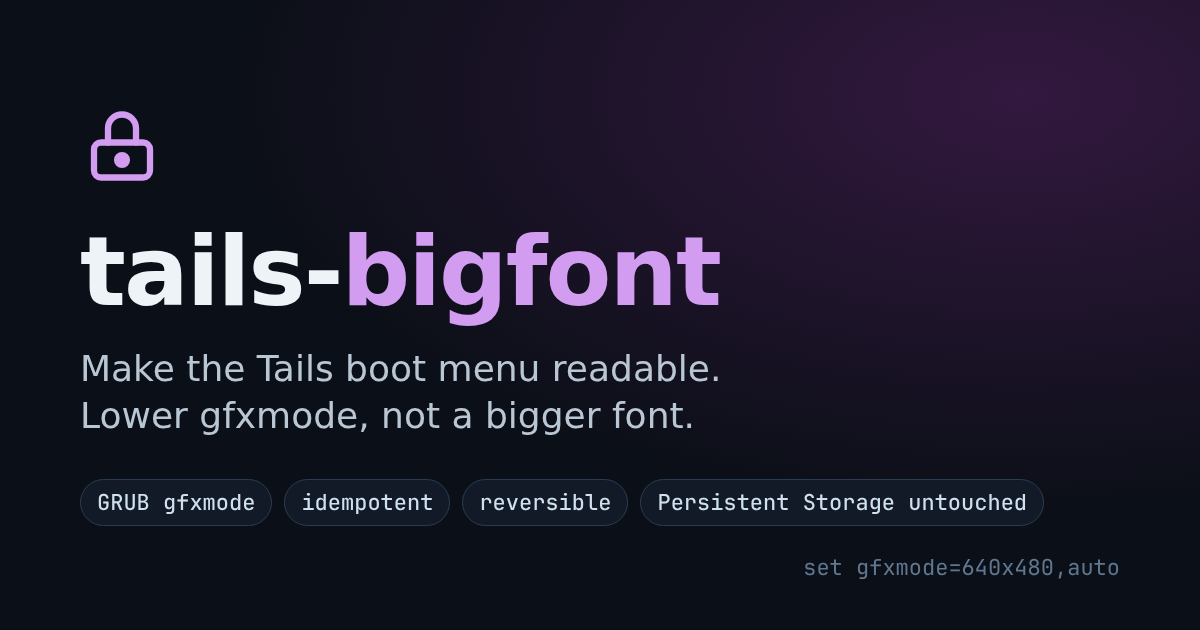
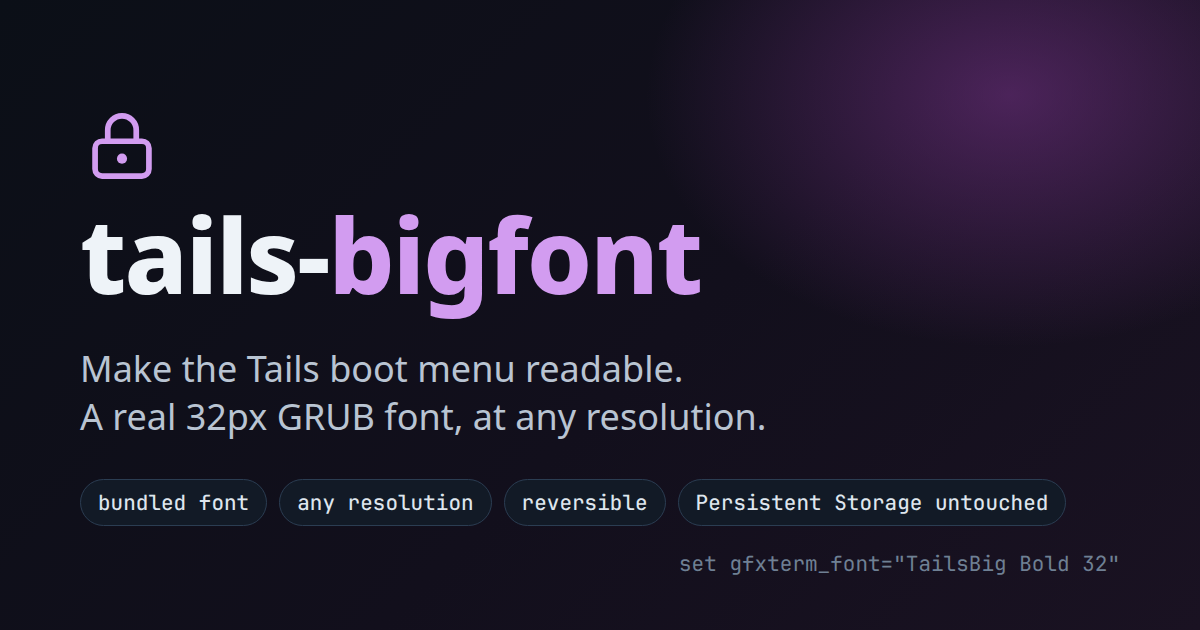
Site: update for v2.0.0 (bundled font, before/after screenshots)
The page argued that a bigger GRUB font does nothing and lowering gfxmode
is the fix. v2 showed the opposite: gfxmode only helps when the firmware
offers a smaller mode, and a font works at any resolution once it wins
GRUB's font selection (the last loaded font, or the one named by
gfxterm_font).

- rewrite: two-levers table, by-hand steps with grub-mkfont + the
  if-loadfont/else block, Secure Boot section, install/update/use
- before/after screenshots from QEMU at native-only 2560x1600
- new social card, FAQ + JSON-LD (softwareVersion 2.0.0), sitemap lastmod
- mobile: wrap long code in tables, keep Copy button off the code

diff --git a/index.html b/index.html
@@ -4,7 +4,7 @@
 <meta charset="utf-8">
 <meta name="viewport" content="width=device-width, initial-scale=1">
 <title>Tails boot menu text too small? Make GRUB readable</title>
-<meta name="description" content="The Tails USB boot menu is unreadably small on high-resolution screens, and loading a bigger GRUB font does nothing. Lowering gfxmode works. How, by hand or with tails-bigfont.">
+<meta name="description" content="The Tails USB boot menu is unreadably small on high-resolution screens. A bundled 32px GRUB font, selected by name with gfxterm_font, makes it readable at any resolution. How, by hand or with tails-bigfont.">
 <link rel="canonical" href="https://doug445.github.io/tails-bigfont/">
 <meta name="author" content="William MacKinnon">
 <meta name="robots" content="index, follow">
@@ -13,12 +13,13 @@
 <meta property="og:type" content="article">
 <meta property="og:site_name" content="tails-bigfont">
 <meta property="og:title" content="Tails boot menu text too small? Make GRUB readable">
-<meta property="og:description" content="Loading a bigger GRUB font on a Tails stick does nothing: GRUB keeps its embedded font. Lowering the graphics resolution is what works, and it never touches Persistent Storage.">
+<meta property="og:description" content="Lowering GRUB's resolution only helps if the firmware offers a smaller mode, and Macs and HiDPI laptops often don't. A real 32px font, selected with gfxterm_font, works at any resolution and never touches Persistent Storage.">
 <meta property="og:url" content="https://doug445.github.io/tails-bigfont/">
 <meta property="og:image" content="https://doug445.github.io/tails-bigfont/card.png">
 <meta property="og:image:width" content="1200">
 <meta property="og:image:height" content="630">
 <meta property="article:published_time" content="2026-10-14">
+<meta property="article:modified_time" content="2026-10-29">
 <meta name="twitter:card" content="summary_large_image">
 <script type="application/ld+json">
 {
@@ -28,19 +29,21 @@
       "@type": "TechArticle",
       "headline": "The Tails boot menu text is too small. Here is what actually makes it bigger",
       "datePublished": "2026-10-14",
-      "dateModified": "2026-10-14",
+      "dateModified": "2026-10-29",
       "image": "https://doug445.github.io/tails-bigfont/card.png",
       "author": { "@type": "Person", "name": "William MacKinnon", "url": "https://github.com/doug445" },
       "mainEntityOfPage": "https://doug445.github.io/tails-bigfont/",
-      "about": { "@type": "SoftwareApplication", "name": "tails-bigfont", "url": "https://github.com/doug445/tails-bigfont", "applicationCategory": "UtilitiesApplication", "operatingSystem": "Linux", "softwareVersion": "1.0.1", "license": "https://opensource.org/licenses/MIT", "offers": { "@type": "Offer", "price": "0", "priceCurrency": "USD" } }
+      "about": { "@type": "SoftwareApplication", "name": "tails-bigfont", "url": "https://github.com/doug445/tails-bigfont", "downloadUrl": "https://github.com/doug445/tails-bigfont/releases/latest/download/install.sh", "applicationCategory": "UtilitiesApplication", "operatingSystem": "Linux", "softwareVersion": "2.0.0", "license": "https://opensource.org/licenses/MIT", "offers": { "@type": "Offer", "price": "0", "priceCurrency": "USD" } }
     },
     {
       "@type": "FAQPage",
       "mainEntity": [
-        { "@type": "Question", "name": "Why doesn't loading a bigger font make the Tails GRUB menu bigger?", "acceptedAnswer": { "@type": "Answer", "text": "GRUB's gfxterm keeps its embedded, roughly 16-pixel unicode font as the default no matter what you loadfont, so building a larger PF2 font and loading it makes no visible difference. Lowering the graphics resolution does: a smaller canvas makes the same font fill much more of the screen." } },
+        { "@type": "Question", "name": "Why doesn't lowering gfxmode make the Tails GRUB menu bigger on my laptop?", "acceptedAnswer": { "@type": "Answer", "text": "GRUB can only switch to resolutions the firmware offers. Many Macs and high-resolution laptops offer only the panel's native mode, so a gfxmode list like 640x480,800x600,1024x768,auto falls through to auto and the text stays tiny. A larger font fixes it at any resolution." } },
+        { "@type": "Question", "name": "I loaded a bigger GRUB font and nothing changed. Why?", "acceptedAnswer": { "@type": "Answer", "text": "Without set gfxterm_font, GRUB uses the most recently loaded font. Tails runs loadfont unicode in its own config, so a bigger font loaded before that line loses to Tails' 16-pixel font and nothing changes. Load yours after Tails' loadfont line, or better, select it by name with set gfxterm_font, which works regardless of order." } },
+        { "@type": "Question", "name": "Does it work with Secure Boot enabled?", "acceptedAnswer": { "@type": "Answer", "text": "Partly. With Secure Boot on, Tails' signed GRUB runs in lockdown and refuses fonts from the USB stick, so tails-bigfont automatically falls back to lowering the resolution. If the firmware also offers only its native mode, the menu stays small unless Secure Boot is turned off." } },
         { "@type": "Question", "name": "Does it touch my Persistent Storage?", "acceptedAnswer": { "@type": "Answer", "text": "No. Only the unencrypted Tails system partition (vfat, label Tails) is edited. The LUKS Persistent Storage partition is never touched." } },
         { "@type": "Question", "name": "Do I have to redo it after a Tails upgrade?", "acceptedAnswer": { "@type": "Answer", "text": "Yes. Tails rewrites its GRUB configuration during every system upgrade, which removes the change. Re-run the tool afterwards; it is idempotent, so running it again is always safe." } },
-        { "@type": "Question", "name": "Can it leave the boot menu blank?", "acceptedAnswer": { "@type": "Answer", "text": "No. The mode list ends with auto, so if the firmware offers none of the small resolutions, GRUB falls back to its usual choice. A one-time .bak of each config is kept, and --revert restores it." } }
+        { "@type": "Question", "name": "Can it leave the boot menu blank or broken?", "acceptedAnswer": { "@type": "Answer", "text": "No. If the font can't be loaded, GRUB takes the fallback branch, and the resolution list ends with auto, so GRUB can always fall back to its usual choice. --revert removes every change and restores Tails' original timeout." } }
       ]
     }
   ]
@@ -52,6 +55,7 @@
 <nav class="sitenav" aria-label="Site">
   <div class="wrap">
     <a class="brand" href="./">tails-bigfont</a>
+    <a href="#before-after">Before / after</a>
     <a href="#by-hand">By hand</a>
     <a href="#tool">The tool</a>
     <a href="https://github.com/doug445/tails-bigfont">GitHub</a>
@@ -62,60 +66,154 @@
 <h1>The Tails boot menu text is too small. Here is what actually makes it bigger</h1>
 <p class="lede">
   On a high-resolution laptop screen, the GRUB menu on a Tails USB stick, where you pick the
-  kernel and boot options, is microscopic. The obvious fix is to load a bigger font, and it does
-  nothing. This page explains why, and the change that does work.
+  kernel and boot options, is microscopic. The usual advice, lowering GRUB's resolution, works on
+  some machines and does nothing on others. This page explains why, and the fix that works at any
+  resolution.
 </p>
 
-<h2 id="why">Why a bigger font doesn't help</h2>
+<h2 id="before-after">Before and after</h2>
+<p>The same Tails 7.15.1 stick and GRUB, on firmware that offers only its native 2560×1600 mode,
+  as many Retina MacBooks do. Captured in QEMU/OVMF and scaled down.</p>
+<div class="compare">
+  <figure>
+    <img src="menu-before-v1.png" width="1200" height="750" loading="lazy"
+         alt="Tails GRUB menu at 2560x1600 after only lowering gfxmode: three tiny menu lines in the top corner of a huge, mostly empty frame">
+    <figcaption><strong>Before:</strong> lower <code>gfxmode</code> only. No smaller mode exists, so the text stays tiny.</figcaption>
+  </figure>
+  <figure>
+    <img src="menu-after-v2.png" width="1200" height="750" loading="lazy"
+         alt="The same Tails GRUB menu at 2560x1600 with the 32px font: large, clearly readable menu entries and help text">
+    <figcaption><strong>After:</strong> 32px font selected with <code>gfxterm_font</code>. Same resolution, readable.</figcaption>
+  </figure>
+</div>
+
+<h2 id="why">Why it's tiny, and the two ways to fix it</h2>
 <p>
-  GRUB's graphical terminal, <code>gfxterm</code>, keeps its <strong>embedded, roughly 16-pixel
-  <code>unicode</code> font</strong> as the default, whatever you <code>loadfont</code>. You can
-  build a large PF2 font, load it, and see no change at all.
+  Tails' GRUB draws its menu with a roughly <strong>16-pixel font</strong> at whatever resolution
+  it runs at. On a 2560×1600 panel that is about 1% of the screen height. There are two levers:
 </p>
-<p>
-  What changes the size you see is the <strong>graphics resolution</strong>. At 640×480 the same
-  16-pixel font fills far more of the screen than at a laptop panel's native 2560×1600. So the fix is
-  to ask GRUB for a small mode.
-</p>
+<div class="table-scroll"><table>
+  <thead><tr><th>Lever</th><th>How</th><th>Catch</th></tr></thead>
+  <tbody>
+    <tr><td>Lower the resolution</td><td><code>set gfxmode=640x480,800x600,1024x768,auto</code></td>
+      <td>GRUB can only use modes the <strong>firmware offers</strong>. Many Macs and HiDPI laptops
+      offer only the native mode, so this falls through to <code>auto</code> and changes nothing.</td></tr>
+    <tr><td>Use a bigger font</td><td><code>loadfont</code> a large PF2, then
+      <code>set gfxterm_font="…"</code></td>
+      <td>Works at <strong>any resolution</strong>. Mind the order: without
+      <code>gfxterm_font</code>, GRUB uses the <em>last</em> font loaded, and Tails loads its own
+      16px <code>unicode</code> font. Load yours too early and nothing changes, which is why many
+      people conclude fonts "don't work". Selecting it by name avoids that. Blocked by Secure Boot
+      lockdown.</td></tr>
+  </tbody>
+</table></div>
+<p>The reliable answer is the font, with the resolution trick kept as a fallback for when GRUB
+  refuses the font.</p>
 
 <h2 id="by-hand">The fix, by hand</h2>
-<p>Add this line to Tails' GRUB configuration, immediately before
-  <code>terminal_output gfxterm</code>:</p>
-<div class="codeblock"><pre><code>set gfxmode=640x480,800x600,1024x768,auto</code></pre></div>
-<p>
-  GRUB tries the modes in order and uses the first one your firmware actually offers, so you get
-  the biggest text available. <code>auto</code> at the end is the safety net: if none of the small
-  modes exists, GRUB falls back to its usual choice and the menu can't go blank.
-</p>
+<ol class="steps">
+  <li>
+    <h3>Make a large GRUB font</h3>
+    <p>On any Linux machine with GRUB's tools (<code>grub-mkfont</code>, or
+      <code>grub2-mkfont</code> on Fedora):</p>
+    <div class="codeblock"><pre><code>grub-mkfont -n TailsBig -s 32 \
+  -r 0x20-0x7E,0xA0-0xFF,0x2190-0x21FF,0x2500-0x25FF \
+  -o tailsbig.pf2 /usr/share/fonts/truetype/dejavu/DejaVuSansMono-Bold.ttf</code></pre></div>
+    <p>The font's name becomes <code>TailsBig Bold 32</code> (family, style, size). The ranges
+      cover ASCII, Latin-1, arrows and the box-drawing characters GRUB's menu uses. The path to the
+      DejaVu font varies by distribution.</p>
+  </li>
+  <li>
+    <h3>Copy it to the Tails partition</h3>
+    <p>Put it at <code>EFI/debian/grub/fonts/tailsbig.pf2</code> on the stick's
+      <code>Tails</code> partition.</p>
+  </li>
+  <li>
+    <h3>Load and select it in GRUB's config</h3>
+    <p>In <code>EFI/debian/grub.cfg</code> (and its copy <code>EFI/debian/grub/grub.cfg</code>),
+      add this immediately before <code>terminal_output gfxterm</code>:</p>
+    <div class="codeblock"><pre><code>if loadfont /EFI/debian/grub/fonts/tailsbig.pf2; then
+  set gfxterm_font="TailsBig Bold 32"
+  set gfxmode=1024x768,auto
+else
+  set gfxmode=640x480,800x600,1024x768,auto
+fi</code></pre></div>
+    <p>If the font loads, it's selected by name and used at any resolution. If GRUB refuses it,
+      for example under Secure Boot, the <code>else</code> branch falls back to lowering the
+      resolution. <code>auto</code> at the end means the screen can't go blank.</p>
+  </li>
+</ol>
 <div class="note"><p><strong>Edit only the Tails system partition</strong>: the unencrypted vfat
   partition labelled <code>Tails</code>. Never touch the LUKS Persistent Storage partition. Keep a
   copy of each file you edit. <strong>Tails rewrites its GRUB files on every system
   upgrade</strong>, so the change has to be made again afterwards.</p></div>
 
+<h2 id="secure-boot">Secure Boot</h2>
+<p>
+  With Secure Boot on, Tails' signed GRUB runs in <strong>lockdown</strong> mode and refuses fonts
+  from the USB stick. The <code>else</code> branch then lowers the resolution instead, which is as
+  big as the text can get there. If that machine also offers only its native mode, the menu stays
+  small unless Secure Boot is turned off in the firmware settings.
+</p>
+
 <h2 id="tool">The tool: tails-bigfont</h2>
 <div class="tool"><p><strong>Automated:</strong>
-  <a href="https://github.com/doug445/tails-bigfont">tails-bigfont</a> makes exactly this edit.
-  It finds the stick itself (<code>LABEL=Tails</code>, <code>FSTYPE=vfat</code>), mounts it with
-  <code>udisksctl</code> without sudo where it can, inserts the <code>gfxmode</code> line, sets a
-  15-second menu timeout, keeps a one-time <code>.bak</code> of each config, and unmounts the same
-  way it mounted. It is idempotent: re-running strips any earlier <code>gfxmode</code> or
-  custom-font lines first, so it's safe to run again after every Tails upgrade.</p></div>
-<div class="codeblock"><pre><code>./install.sh            # installs tails-bigfont, plus a tailsfont function and tailsbig alias
-tails-bigfont           # plug in the stick; it finds the Tails partition
-tails-bigfont -t 10     # custom GRUB timeout (default 15)
-tails-bigfont -d /dev/sdb1    # pick the partition yourself if several sticks are plugged in
-tails-bigfont --revert  # restore from .bak, or just remove the gfxmode line</code></pre></div>
-<p><code>install.sh</code> is self-contained, with the whole tool embedded, so you can copy that
-  one file to any Linux machine. It adds the <code>tailsfont</code> function and
-  <code>tailsbig</code> alias to bash, zsh and fish. Free and open source, MIT licence.</p>
+  <a href="https://github.com/doug445/tails-bigfont">tails-bigfont</a> does all of the above. It
+  carries the 32px font inside itself, finds the stick (<code>LABEL=Tails</code>,
+  <code>FSTYPE=vfat</code>), mounts it with <code>udisksctl</code> without sudo where it can,
+  writes a clearly marked block into both GRUB configs, sets a 15-second menu timeout, and
+  unmounts the same way it mounted. It's idempotent, so it's safe to re-run after every Tails
+  upgrade, and <code>--revert</code> removes everything and restores Tails' original timeout.</p></div>
+
+<h3>Install</h3>
+<div class="codeblock"><pre><code>git clone https://github.com/doug445/tails-bigfont.git
+cd tails-bigfont
+./install.sh</code></pre></div>
+<p><code>install.sh</code> is self-contained, with the whole tool and font embedded, so you can
+  also <a href="https://github.com/doug445/tails-bigfont/releases/latest/download/install.sh">download
+  just that one file</a> and run it on any Linux machine. It installs <code>tails-bigfont</code> to
+  <code>/usr/local/bin</code> (or <code>~/.local/bin</code>), plus <code>tailsfont</code> and
+  <code>tailsbig</code> as shortcuts that work in any shell.</p>
+
+<h3>Update</h3>
+<div class="codeblock"><pre><code>git pull &amp;&amp; ./install.sh</code></pre></div>
+<p>Then run <code>tailsbig</code> again with the stick plugged in, so the stick gets the new
+  version's changes too.</p>
+
+<h3>Use</h3>
+<div class="codeblock"><pre><code>tailsbig                # plug in the stick; it finds the Tails partition
+tailsbig -t 10          # custom GRUB timeout (default 15)
+tailsbig -s 48          # bigger font, e.g. for 4K (needs grub-mkfont locally)
+tailsbig -d /dev/sdb1   # pick the partition yourself if several sticks are plugged in
+tailsbig --revert       # remove all changes and the font
+tailsbig --version</code></pre></div>
+<p>Free and open source, MIT licence. The bundled font is a renamed subset of DejaVu Sans Mono
+  Bold under its own permissive licence. See the
+  <a href="https://github.com/doug445/tails-bigfont/blob/main/CHANGELOG.md">changelog</a> and
+  <a href="https://github.com/doug445/tails-bigfont/releases/latest">latest release</a>.</p>
 
 <h2 id="faq">FAQ</h2>
 <details>
-  <summary>Why doesn't loading a bigger font make the Tails GRUB menu bigger?</summary>
-  <p>GRUB's gfxterm keeps its embedded, roughly 16-pixel unicode font as the default no matter
-    what you loadfont, so building a larger PF2 font and loading it makes no visible difference.
-    Lowering the graphics resolution does: a smaller canvas makes the same font fill much more of
-    the screen.</p>
+  <summary>Why doesn't lowering gfxmode make the Tails GRUB menu bigger on my laptop?</summary>
+  <p>GRUB can only switch to resolutions the firmware offers. Many Macs and high-resolution
+    laptops offer only the panel's native mode, so a gfxmode list like
+    640x480,800x600,1024x768,auto falls through to auto and the text stays tiny. A larger font
+    fixes it at any resolution.</p>
+</details>
+<details>
+  <summary>I loaded a bigger GRUB font and nothing changed. Why?</summary>
+  <p>Without <code>set gfxterm_font</code>, GRUB uses the most recently loaded font. Tails runs
+    <code>loadfont unicode</code> in its own config, so a bigger font loaded before that line loses
+    to Tails' 16-pixel font and nothing changes. Load yours after Tails' <code>loadfont</code>
+    line, or better, select it by name with <code>set gfxterm_font</code>, which works regardless
+    of order.</p>
+</details>
+<details>
+  <summary>Does it work with Secure Boot enabled?</summary>
+  <p>Partly. With Secure Boot on, Tails' signed GRUB runs in lockdown and refuses fonts from the
+    USB stick, so tails-bigfont automatically falls back to lowering the resolution. If the
+    firmware also offers only its native mode, the menu stays small unless Secure Boot is turned
+    off.</p>
 </details>
 <details>
   <summary>Does it touch my Persistent Storage?</summary>
@@ -128,10 +226,16 @@ tails-bigfont --revert  # restore from .bak, or just remove the gfxmode line</co
     change. Re-run the tool afterwards; it is idempotent, so running it again is always safe.</p>
 </details>
 <details>
-  <summary>Can it leave the boot menu blank?</summary>
-  <p>No. The mode list ends with auto, so if the firmware offers none of the small resolutions,
-    GRUB falls back to its usual choice. A one-time .bak of each config is kept, and --revert
-    restores it.</p>
+  <summary>Can it leave the boot menu blank or broken?</summary>
+  <p>No. If the font can't be loaded, GRUB takes the fallback branch, and the resolution list ends
+    with auto, so GRUB can always fall back to its usual choice. <code>--revert</code> removes
+    every change and restores Tails' original timeout.</p>
+</details>
+<details>
+  <summary>I used version 1. What changes?</summary>
+  <p>Version 1 only lowered the resolution, so it helped on some machines and not others. Update
+    with <code>git pull &amp;&amp; ./install.sh</code>, then run <code>tailsbig</code> on the
+    stick. It replaces version 1's line with the new block automatically.</p>
 </details>
 </main>
 
@@ -141,7 +245,7 @@ tails-bigfont --revert  # restore from .bak, or just remove the gfxmode line</co
       (<a href="https://github.com/doug445">doug445</a>) ·
       <a href="https://github.com/doug445/tails-bigfont">Source on GitHub</a></p>
     <p>Independent project. Not affiliated with or endorsed by the Tails project.</p>
-    <p>Copyright © 2026 William MacKinnon. MIT licence. Page last updated 22 October 2026.</p>
+    <p>Copyright © 2026 William MacKinnon. MIT licence. Page last updated 29 October 2026.</p>
   </div>
 </footer>
 

diff --git a/style.css b/style.css
@@ -178,3 +178,11 @@ footer p { margin: 0 0 .5rem; }
 .tool { border: 1px solid var(--accent); border-radius: 12px; padding: 1rem 1.2rem; margin: 2rem 0; background: var(--surface); }
 .tool p:last-child { margin-bottom: 0; }
 small { color: var(--muted); }
+
+.compare { display: grid; grid-template-columns: 1fr; gap: 1rem; margin: 1rem 0 1.5rem; }
+@media (min-width: 720px) { .compare { grid-template-columns: 1fr 1fr; } }
+.compare figure { margin: 0; }
+.compare img { width: 100%; height: auto; background: #000; }
+.compare figcaption { text-align: left; }
+td code { overflow-wrap: anywhere; }
+@media (max-width: 600px) { .codeblock pre { padding-top: 2.6rem; } }
